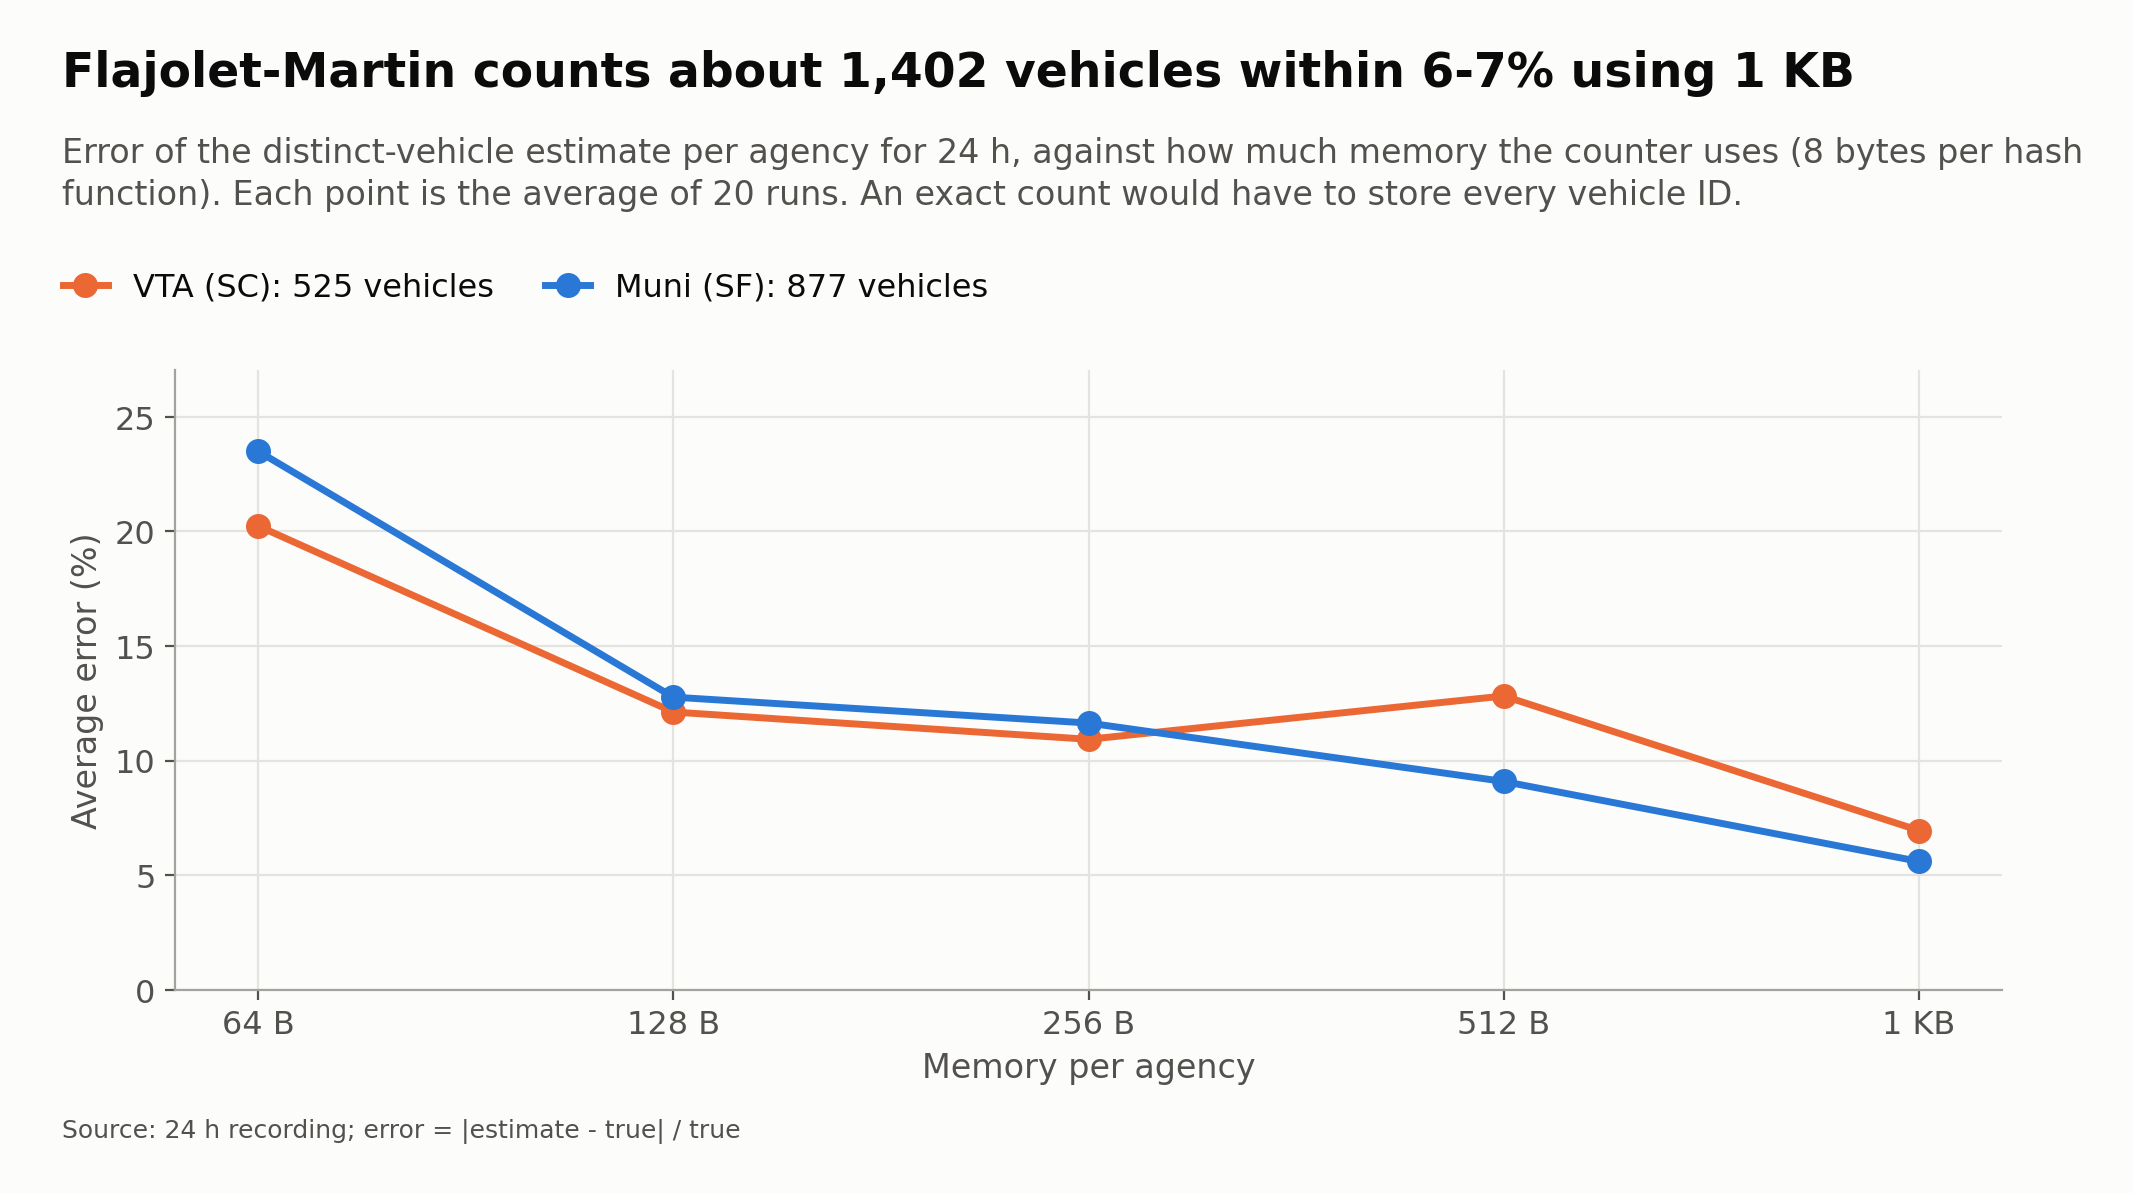
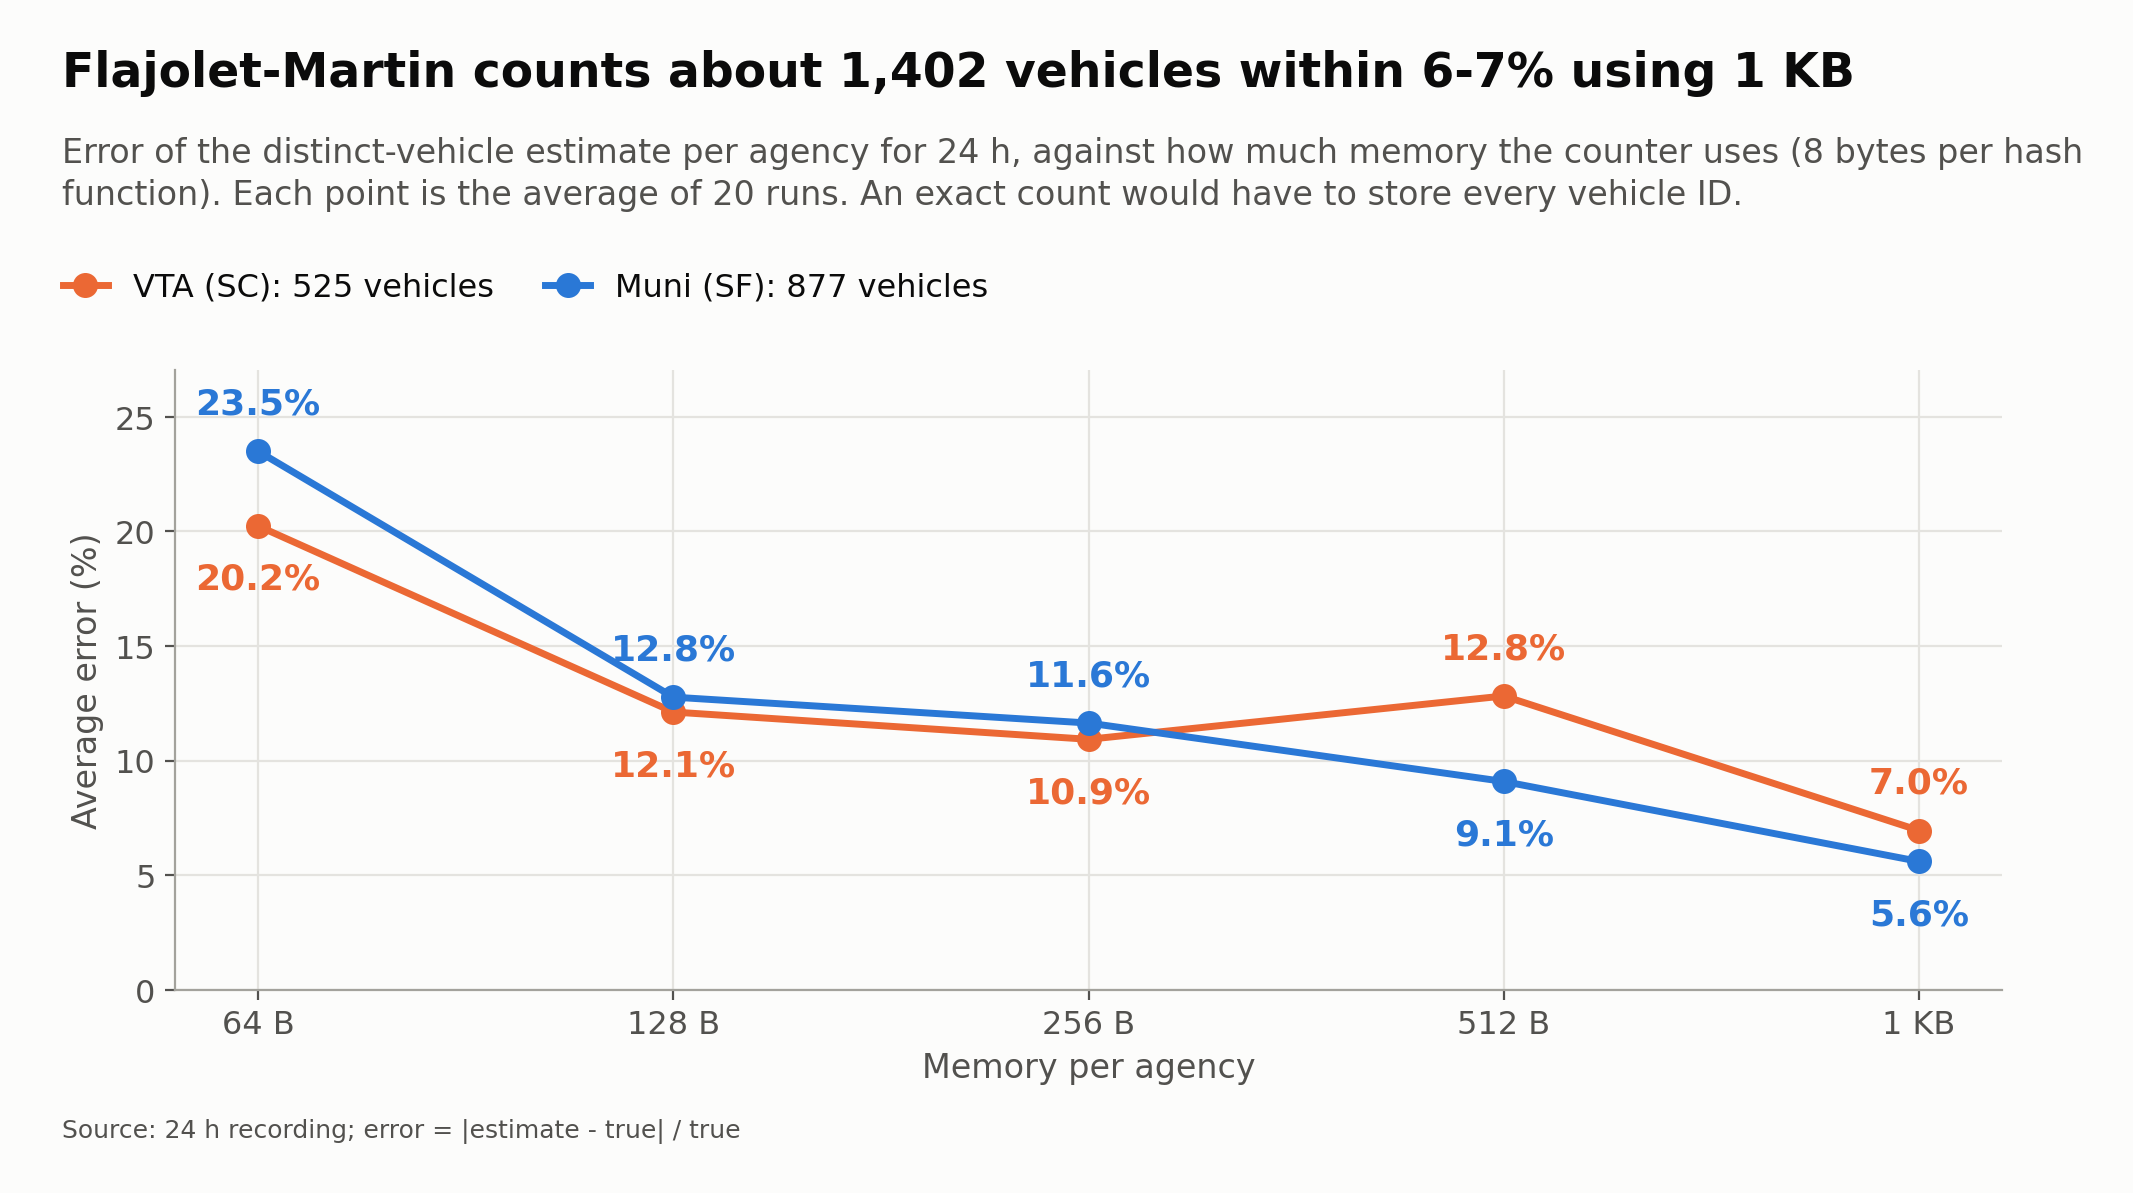
B28: redesigned figures (replace previous versions)

diff --git a/benchmarks/make_figures.py b/benchmarks/make_figures.py
@@ -172,6 +172,15 @@ def fig_fm(rows):
         ax.plot(g.memory_bytes, g.mean_error_pct, "-o", color=c)
         handles.append(plt.Line2D([], [], color=c, marker="o"))
         labels.append(f"{AGENCY_NAME.get(src, src)}: {g['true'].iloc[0]} vehicles")
+    # Label every point with its error: the higher line's value above its point, the lower one's below,
+    # so the two agencies' labels never collide where the lines are close.
+    for mem, g in df.groupby("memory_bytes"):
+        g = g.sort_values("mean_error_pct")
+        for rank, (_, r) in enumerate(g.iterrows()):
+            above = rank == len(g) - 1
+            ax.annotate(f"{r.mean_error_pct:.1f}%", (mem, r.mean_error_pct), xytext=(0, 11 if above else -13),
+                        textcoords="offset points", ha="center", va="bottom" if above else "top",
+                        fontsize=13, fontweight="bold", color=AGENCY.get(r.source, AQUA))
     last = df[df.memory_bytes == df.memory_bytes.max()]
     lo, hi = last.mean_error_pct.min(), last.mean_error_pct.max()
     y = header(fig, f"Flajolet-Martin counts about {total:,} vehicles within {lo:.0f}-{hi:.0f}% using 1 KB",
